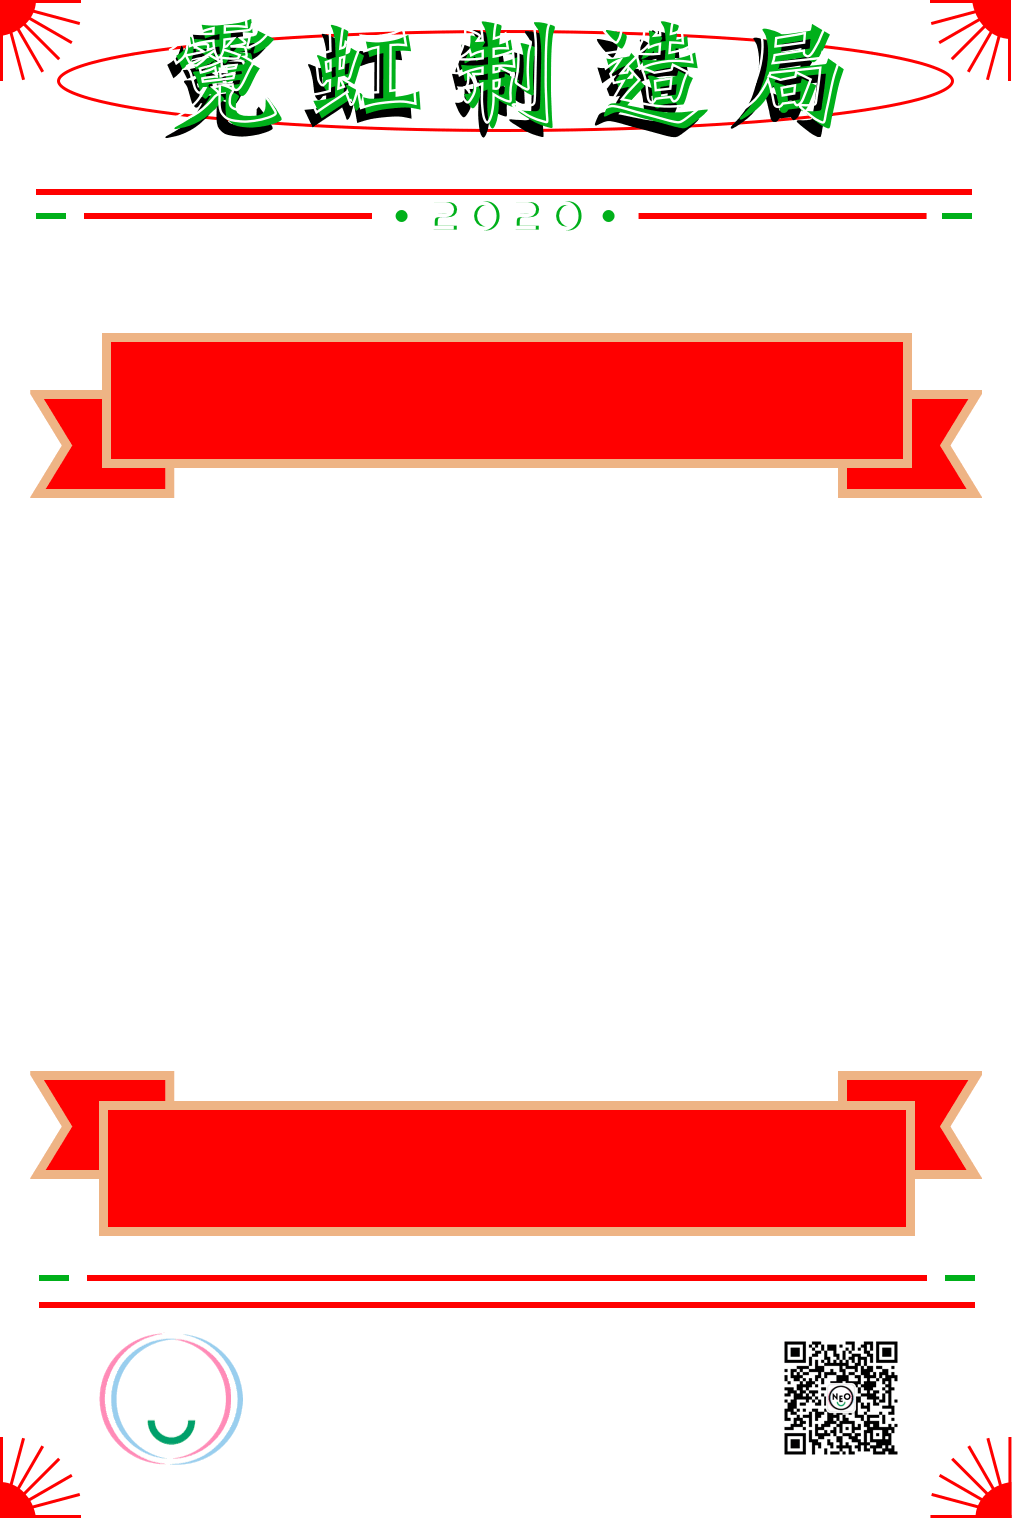
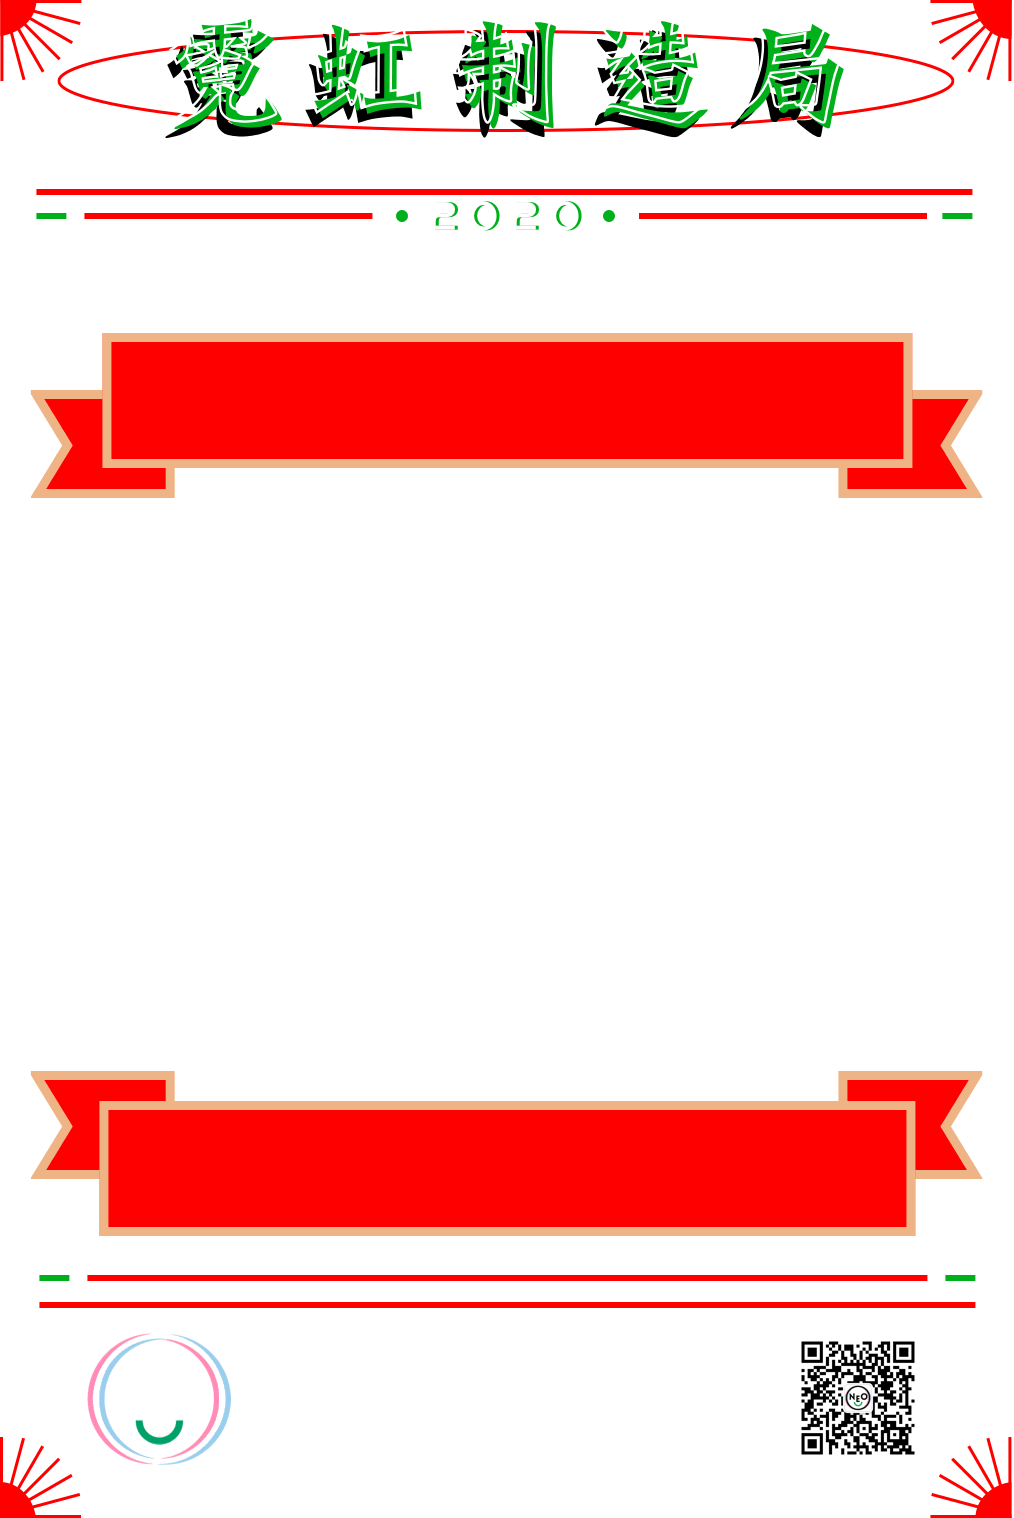
feat: 除去回流done

diff --git a/src/pages/Share/index.js b/src/pages/Share/index.js
@@ -1,9 +1,13 @@
 import React, {useState} from "react";
 import './index.scss';
 import neoPosterGenerator from '../../common/components/canvas/neo-poster-generator';
+import qrcode from './qrcode.png';
+import {getShortLink} from "../../common/constants/short-link";
 
 let startTime = undefined;
 let endTime = undefined;
+let flag = false;
+let loaded = false;
 
 export default function () {
 
@@ -16,17 +20,42 @@ export default function () {
   const [base64URL, setBaseURL] = useState('');
   const [follow, setFollow] = useState(false);
 
-  neoPosterGenerator(url).then(res => setBaseURL(res));
+  getShortLink(url).then(({data}) => {
+    neoPosterGenerator(data.ShortUrl || url).then(res => {
+      if (loaded) {
+        return;
+      }
+      loaded = true;
+      setBaseURL(res);
+    });
+  });
   return (
     <div className="share-container">
       <div className="img-container">
-        <img src={base64URL} width="349" height="518" alt="分享图片"/>
+        <img
+          onTouchStart={() => startTime = (new Date()).valueOf()}
+          onTouchEnd={() => {
+            endTime = (new Date()).valueOf();
+            if (endTime - startTime > 600) {
+              setFollow(true)
+            }
+          }}
+          src={base64URL} width="349" height="518"/>
       </div>
       {
         follow
           ? (
             <div className="follow-modal">
-
+              <div className="follow-text">长按二维码关注公众号<br/>参与更多活动</div>
+              <img src={qrcode}
+                   style={{
+                     width: '2.88rem',
+                     height: '2.88rem'
+                   }}
+              />
+              <div onClick={() => {
+                setFollow(false);
+              }} className="follow-btn">{/*关注完成*/}</div>
             </div>
           ) : null
       }

diff --git a/src/common/components/canvas/neo-poster-generator/index.js b/src/common/components/canvas/neo-poster-generator/index.js
@@ -2,6 +2,7 @@ import Konva from "konva";
 import QRCode from 'qrcode';
 
 import backgroundImage from '../../../assets/energetic/share/background.png';
+import play from '../../../assets/energetic/share/play.png';
 import {cubeMaker} from "../neo-cube-picture-maker";
 import {wishes} from "../../../constants/wishes";
 
@@ -22,7 +23,7 @@ const promisifyImageGenerate = (dataURI, x, y, width, height, group, layer) => n
 export default function neoPosterGenerator(url) {
 
   const {row, column} = JSON.parse(window.sentence_results);
-  const [row1, row2] = wishes[row][column].split('\n');
+  const [row1, row2] = wishes[column - 1][row].split('\n');
 
   return new Promise((resolve) => {
      QRCode.toDataURL(url).then(base64Image => {
@@ -134,11 +135,14 @@ export default function neoPosterGenerator(url) {
          cubeMaker(
            group, JSON.parse(decodeURIComponent(window.sound_results)).rhythmNotes
          );
-         promisifyImageGenerate(base64Image, 264.27 * dpr, 450 * dpr, 44 * dpr, 44 * dpr, group, layer).then(() => {
-           layer.add(group);
-           let final = layer.toDataURL();
-           document.body.removeChild(canvas);
-           resolve(final);
+         promisifyImageGenerate(base64Image, 270 * dpr, 450 * dpr, 44 * dpr, 44 * dpr, group, layer).then(() => {
+           promisifyImageGenerate(play, 148 * 3, 240 * 3, 56 * 3, 56 * 3, group, layer).then(()=>{
+             layer.add(group);
+             let final = layer.toDataURL();
+             document.body.removeChild(canvas);
+             resolve(final);
+           })
+
          });
        })
      });

diff --git a/src/components/neo-footer/energetic-theme.scss b/src/components/neo-footer/energetic-theme.scss
@@ -13,43 +13,18 @@
   justify-content: space-between;
   align-items: center;
 
-  & .neo-footer-left-element {
-    width: 1.39rem;
-    height: .44rem;
-    margin-left: .03rem;
-    background: url("../../common/assets/energetic/footer/title-left.png") no-repeat center;
-    background-size: contain;
-  }
-
-  & .neo-footer-right-element {
-    width: 1.39rem;
-    height: .44rem;
-    margin-right: .03rem;
-    background: url("../../common/assets/energetic/footer/title-right.png") no-repeat center;
-    background-size: contain;
-  }
-
   & .neo-footer-main-element {
     height: 100%;
-    width: .8rem;
+    width: 100%;
     display: flex;
     flex-flow: column;
     justify-content: center;
     align-items: center;
 
     & .title {
-      margin: 0 auto .02rem;
-      width: .8rem;
-      height: .35rem;
+      height: 100%;
+      width: 100%;
       background: url("../../common/assets/energetic/footer/title.png") no-repeat center;
-      background-size: contain;
-    }
-
-    & .subtitle {
-      margin: 0 auto;
-      width: .69rem;
-      height: .12rem;
-      background: url("../../common/assets/energetic/footer/subtitle.png") no-repeat center;
       background-size: contain;
     }
   }

diff --git a/src/pages/TextEditor/index.js b/src/pages/TextEditor/index.js
@@ -1,7 +1,6 @@
 import React, {useState, useEffect} from "react";
 import './index.scss';
 import {row, wishes} from "../../common/constants/wishes";
-import loader from '../../common/utils/font-loader';
 
 let rowIndex = 1;
 const getWishes = () => {
@@ -10,6 +9,9 @@ const getWishes = () => {
   }
   return wishes[rowIndex++];
 };
+
+let rowNEXT = undefined;
+let columnNEXT = undefined;
 
 export default function ({setStep}) {
 
@@ -25,7 +27,7 @@ export default function ({setStep}) {
     if (columnState === undefined || rowState === undefined) {
       return;
     }
-    window.sentence_results = JSON.stringify({column: columnState, row: rowState});
+    window.sentence_results = JSON.stringify({column: rowNEXT, row: columnNEXT});
     setStep(3);
   };
 
@@ -44,6 +46,8 @@ export default function ({setStep}) {
                 <div
                   key={index}
                   onClick={() => {
+                    rowNEXT = rowIndex;
+                    columnNEXT = index;
                     setColumn(index);
                     setRow(rowIndex)
                   }}

diff --git a/src/common/constants/wishes.js b/src/common/constants/wishes.js
@@ -1,6 +1,6 @@
 export const wishes = [
   ['身体健康\n心想事成', '开车全绿灯\n红火一整年', '语数外门门问鼎\n文理综科科给力', '升职加薪\n颜值爆表', '恭喜发财\n大吉大利', '百病不侵身\n熬夜还生发'],
-  ['升职加薪\n颜值爆表', '开车全绿灯\n红火一整年', '语数外门门问鼎\n文理综科科给力', '升职加薪\n颜值爆表', '身体健康\n心想事成', '百病不侵身\n熬夜还生发'],
+  ['中奖一亿\n光速脱单', '爱情甜蜜蜜\n做个有钱人', '所求皆如愿\n所行化坦途', '身体倍棒\n吃嘛嘛香', '财运滚滚\n好运连连', '改革春风吹满地\n新的一年要争气'],
   ['恭喜发财\n大吉大利', '百病不侵身\n熬夜还生发', '语数外门门问鼎\n文理综科科给力', '恭喜发财\n大吉大利', '身体健康\n心想事成', '开车全绿灯\n红火一整年'],
 ];
 

diff --git a/src/common/stylesheets/base.scss b/src/common/stylesheets/base.scss
@@ -32,7 +32,7 @@ div {
     content: '';
     box-sizing: border-box;
     transform-origin: 0 0;
-    border: 0 solid rgba(255, 255,255, 1);
+    border: 0 solid #FFC7EC;
     left: 0;
     top: 0;
     width: 100%;
@@ -41,27 +41,27 @@ div {
 }
 
 .border-left:before {
-  border-left-width: 1px;
+  border-left-width: 4px;
 }
 
 .border-right:before {
   right: 0;
   top: 0;
-  border-right-width: 1px;
+  border-right-width: 4px;
 }
 
 .border-top:before {
   left: 0;
   top: 0;
-  border-top-width: 1px;
+  border-top-width: 4px;
 }
 
 .border-bottom:before {
-  border-bottom-width: 1px;
+  border-bottom-width: 4px;
 }
 
 .border-all:before {
-  border-width: 1px;
+  border-width: 4px;
 }
 
 @media (-webkit-min-device-pixel-ratio: 2), (min-resolution: 2dppx) {

diff --git a/src/components/neo-player-controller/energetic-theme.scss b/src/components/neo-player-controller/energetic-theme.scss
@@ -35,9 +35,9 @@
       .tempo-container-show {
         animation: show .2s ease-in forwards;
         position: absolute;
-        background-color: #fb4963;
+        background-color: #00B01A;
         border-radius: .06rem;
-        border: solid .02rem #ffffff;
+        border: solid .02rem #FFC7EC;
         height: 1.64rem;
         width: .31rem;
         left: 50%;
@@ -66,9 +66,9 @@
       .tempo-container-hide {
         animation: hide .2s ease-out forwards;
         position: absolute;
-        background-color: #fb4963;
+        background-color: #00B01A;
         border-radius: .06rem;
-        border: solid .02rem #ffffff;
+        border: solid .02rem #FFC7EC;
         height: 1.64rem;
         width: .31rem;
         left: 50%;

diff --git a/src/pages/Share/index.scss b/src/pages/Share/index.scss
@@ -34,10 +34,28 @@
     right: 0;
     bottom: 0;
     padding: .08rem;
-    background: rgba(17, 19, 67, .8);
+    background: rgba(17, 19, 67, .9);
     display: flex;
-    justify-content: center;
+    flex-flow: column;
+    justify-content: space-around;
     align-items: center;
     z-index: 1000000;
+
+    & .follow-text {
+      border: 2px solid red;
+      color: white;
+      font-size: .24rem;
+      padding: .1rem .2rem;
+      font-family: neo-font,sans-serif;
+      background: #171967;
+      text-align: center;
+    }
+
+    & .follow-btn {
+      height: .53rem;
+      width: 2.02rem;
+      background: url("./btn.png") no-repeat center;
+      background-size: contain;
+    }
   }
 }

diff --git a/src/components/neo-rhythm-section/energetic-theme.scss b/src/components/neo-rhythm-section/energetic-theme.scss
@@ -16,7 +16,7 @@
     width: .28rem;
     height: 80%;
     margin-left: .06rem;
-    margin-top: -8%;
+    margin-top: -3%;
     position: relative;
     background: url("../../common/assets/energetic/rhythm-section/aside.png") no-repeat center;
     background-size: contain;
@@ -26,7 +26,7 @@
     width: .28rem;
     height: 80%;
     margin-right: .06rem;
-    margin-top: -8%;
+    margin-top: -3%;
     position: relative;
     background: url("../../common/assets/energetic/rhythm-section/aside.png") no-repeat center;
     background-size: contain;

diff --git a/src/common/constants/color.js b/src/common/constants/color.js
@@ -6,8 +6,8 @@
  */
 
 /* NEO RHYTHM CANVAS */
-export const BOLD_LINE_COLOR = '#fb4963';
-export const LIGHT_LINE_COLOR = 'rgba(251,73,99,0.3)';
+export const BOLD_LINE_COLOR = '#FF0000';
+export const LIGHT_LINE_COLOR = 'rgba(255,0,0,0.3)';
 export const EMPTY_CUBE_COLOR = '#171963';
 export const DO_CUBE_COLOR = '#FFC46C';
 export const RE_CUBE_COLOR = '#FFEC9B';

diff --git a/src/common/constants/short-link.js b/src/common/constants/short-link.js
@@ -1,0 +1,16 @@
+import neoFetch from 'axios';
+
+export const token = 'ce9c4cfe0500ea07904ada79354c2e15';
+export const api = 'https://dwz.cn/admin/v2/create';
+
+export const getShortLink = (url) => Promise.resolve({data:''});
+
+  /*
+  *
+  * neoFetch({
+  method: 'POST',
+  headers: {'Token': token},
+  data: JSON.stringify({url}),
+  url: api,
+});
+*/

diff --git a/src/components/neo-player-controller/range/index.jsx b/src/components/neo-player-controller/range/index.jsx
@@ -13,11 +13,11 @@ const useStyles = makeStyles(() => ({
 
 const PrettoSlider = withStyles({
   root: {
-    color: EMPTY_CUBE_COLOR,
+    color: '#ffffff',
     width: 100,
   },
   thumb: {
-    backgroundColor: EMPTY_CUBE_COLOR,
+    backgroundColor: '#ff0000',
     '&:focus,&:hover,&$active': {
       boxShadow: 'inherit',
     },
